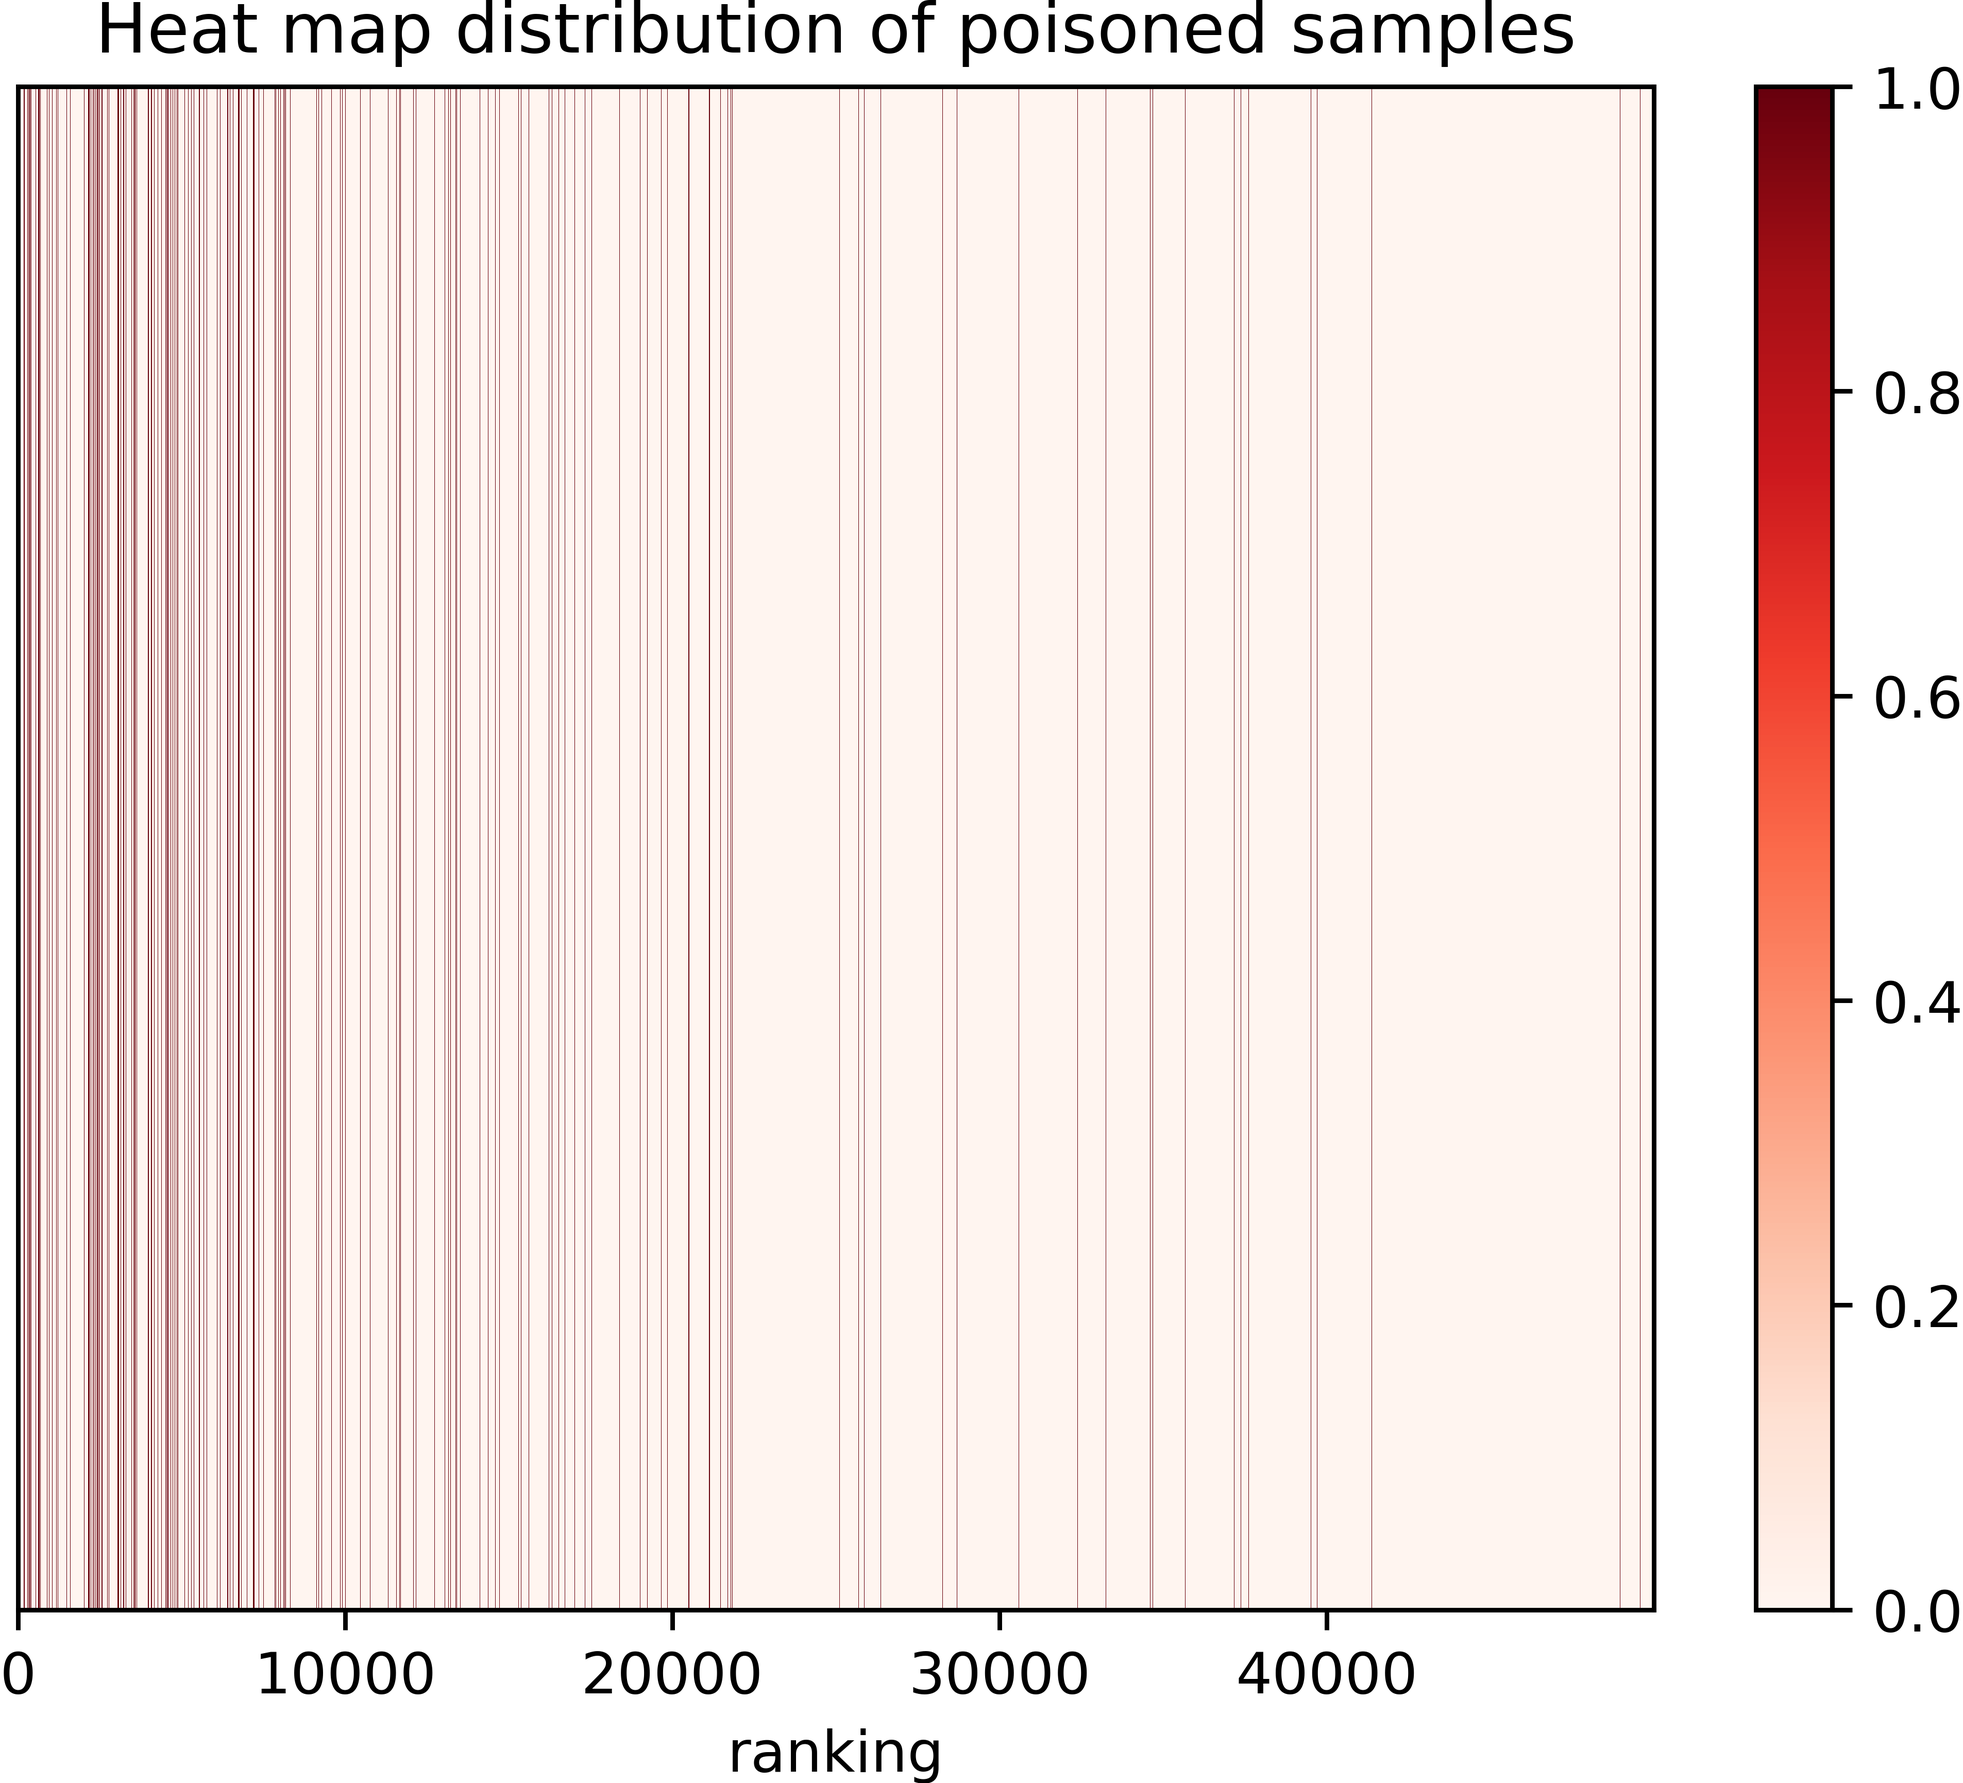
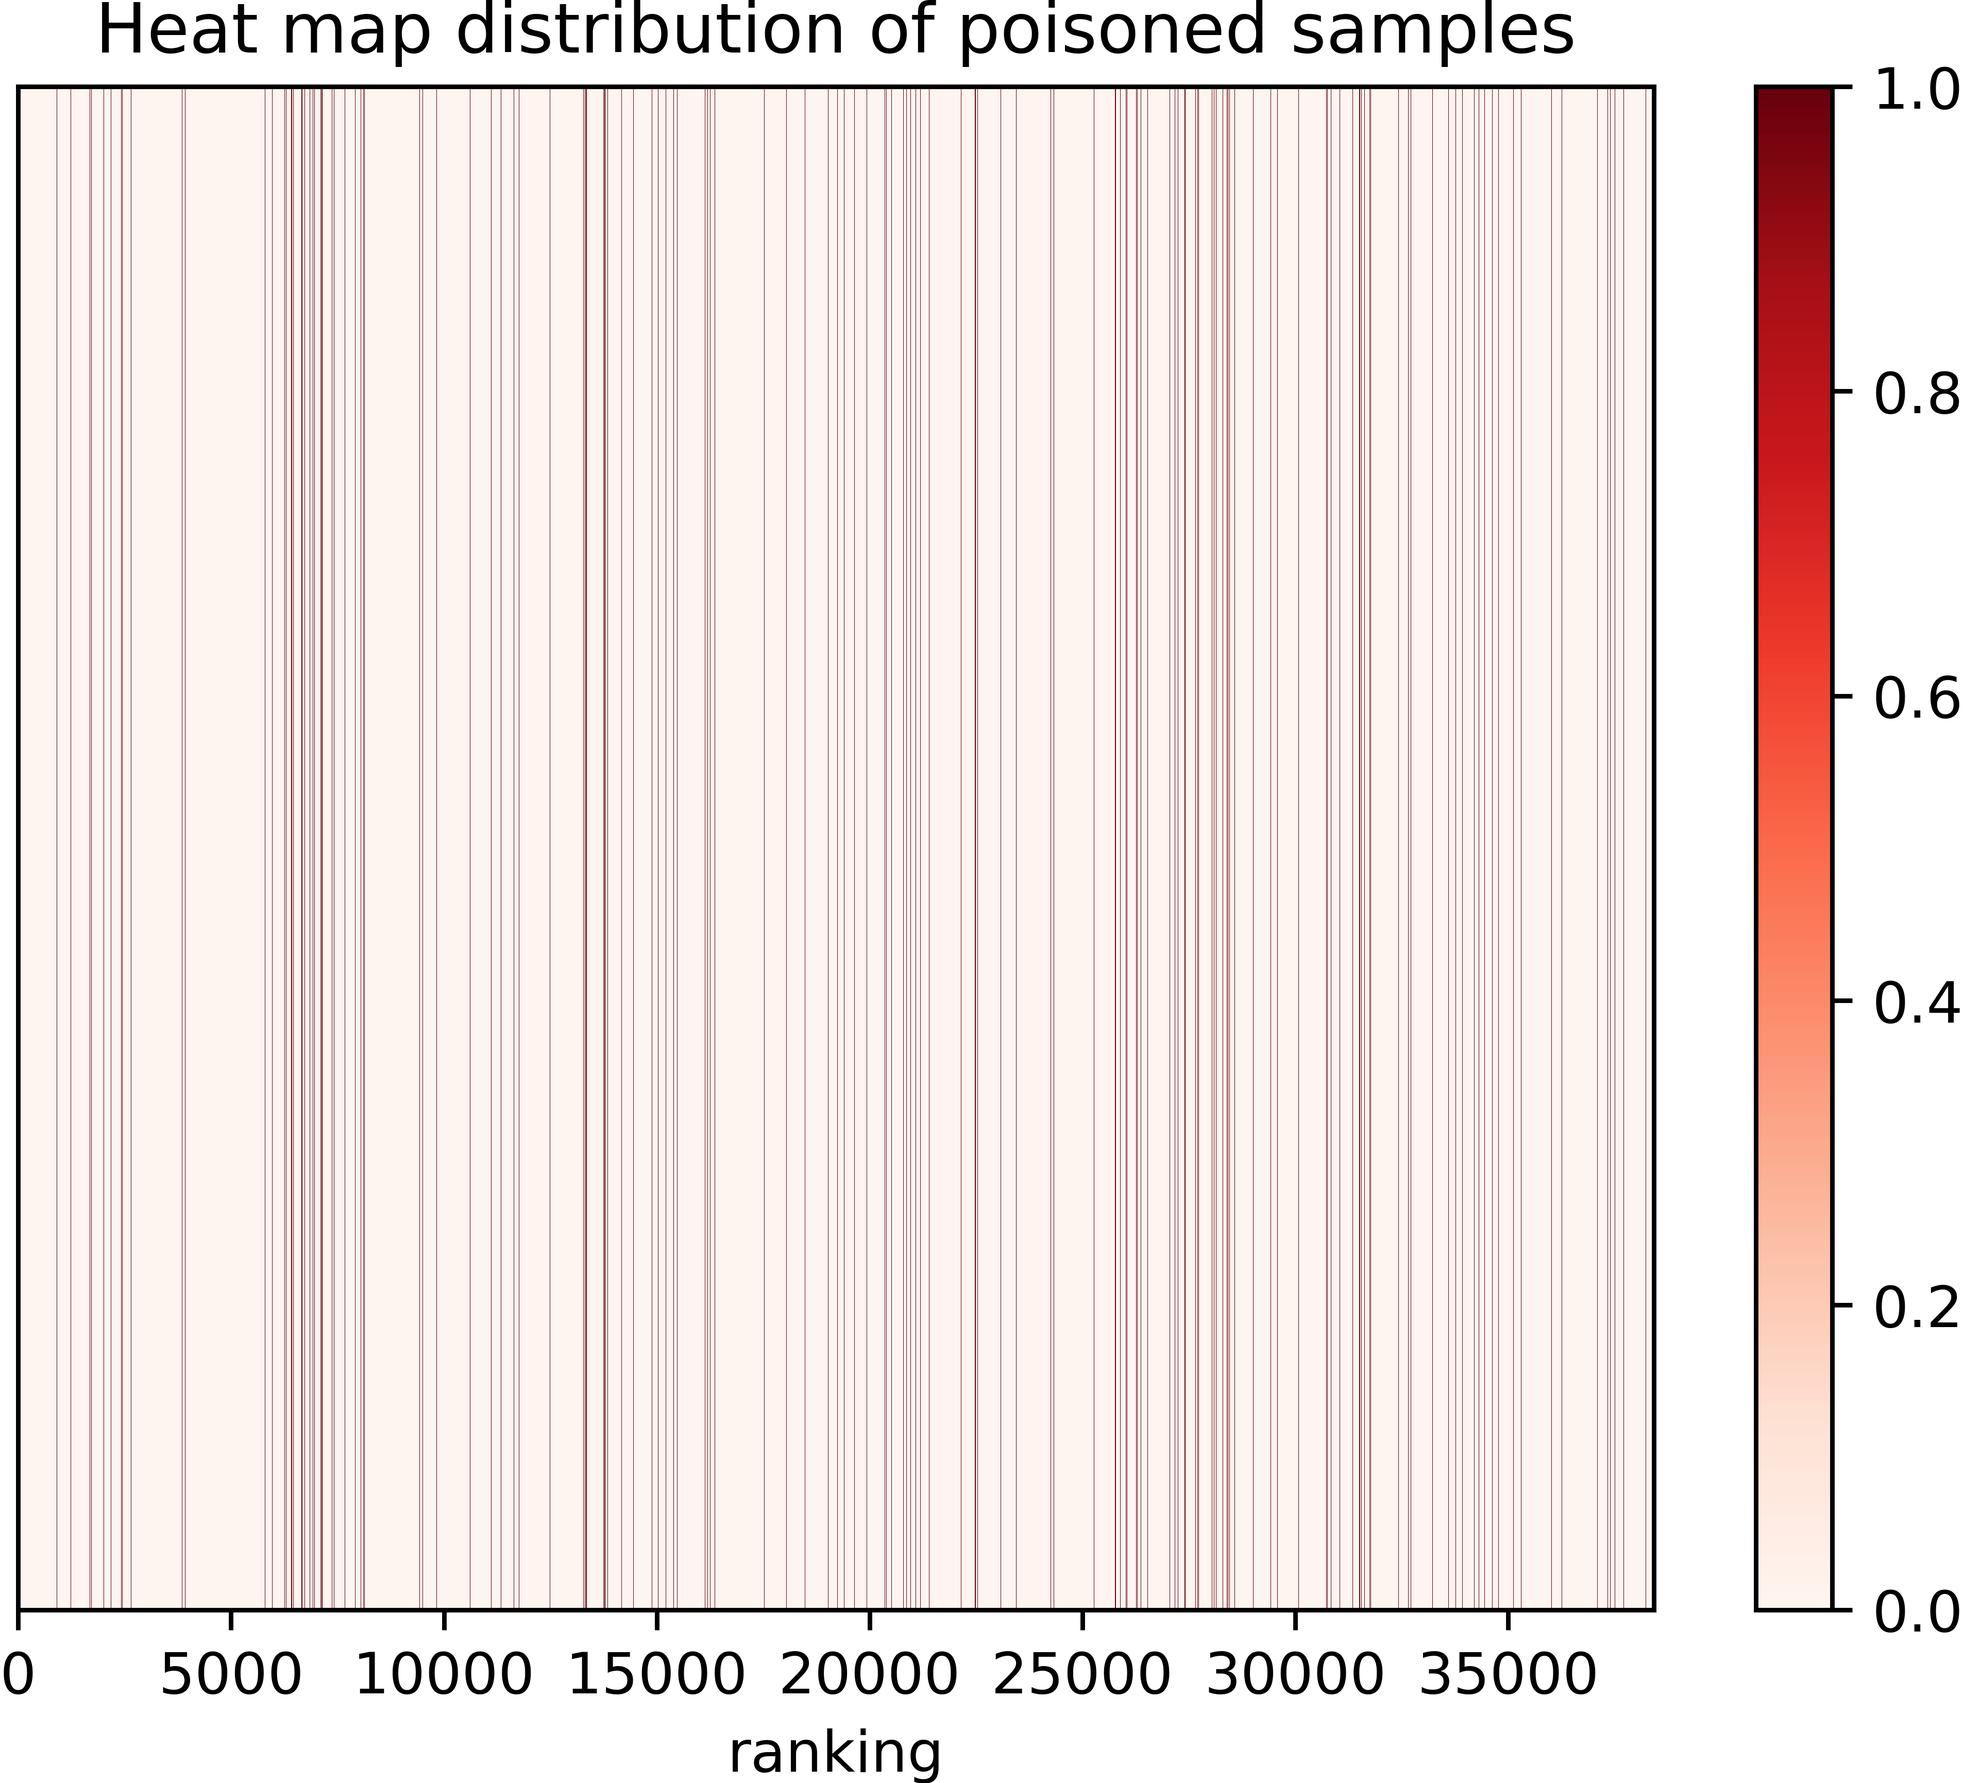
go

diff --git a/codes/ourMethod/retrain.py b/codes/ourMethod/retrain.py
@@ -6,6 +6,7 @@ import os
 import time
 import joblib
 import copy
+import queue
 import numpy as np
 from collections import defaultdict
 from codes.ourMethod.loss import SCELoss
@@ -45,10 +46,6 @@ from codes.transform_dataset import gtsrb_BadNets, gtsrb_IAD, gtsrb_Refool, gtsr
 from codes.transform_dataset import imagenet_BadNets, imagenet_IAD, imagenet_Refool, imagenet_WaNet
 
 
-# 进程名称
-proctitle = f"OMretrain|{config.dataset_name}|{config.model_name}|{config.attack_name}"
-setproctitle.setproctitle(proctitle)
-print(proctitle)
 
 # 加载后门攻击配套数据
 backdoor_data_path = os.path.join(config.exp_root_dir, 
@@ -136,60 +133,48 @@ poisoned_testset_loader = DataLoader(
             shuffle=False,
             num_workers=4,
             pin_memory=True)
+
+# 获得种子
+# {class_id:[sample_id]}
+clean_sample_dict = defaultdict(list)
+for sample_id, item in enumerate(poisoned_trainset):
+    x = item[0]
+    y = item[1]
+    isPoisoned = item[2]
+    if isPoisoned is False:
+        clean_sample_dict[y].append(sample_id)
+seed_sample_id_list = []
+for class_id,sample_id_list in clean_sample_dict.items():
+    seed_sample_id_list.extend(np.random.choice(sample_id_list, replace=False, size=10).tolist())
+seedSet = Subset(poisoned_trainset,seed_sample_id_list)
 # 获得设备
 device = torch.device(f"cuda:{config.gpu_id}")
 
 
-'''
-看一下后门模型上损失情况
-'''
+def resort(ranked_sample_id_list,label_list,class_rank:list)->list:
+        # 基于class_rank得到每个类别权重，原则是越可疑的类别（索引越小的类别），权（分）越大
+        cls_num = len(class_rank)
+        cls2score = {}
+        for idx, cls in enumerate(class_rank):
+            # rank:类别cat的位次
+            cls2score[cls] = (cls_num - idx)/cls_num 
 
-model = backdoor_model
-'''
-model.to(device)
-dataset_loader = poisoned_evalset_loader # 不打乱
-# 损失函数
-# loss_fn = SCELoss(num_classes=10, reduction="none") # nn.CrossEntropyLoss()
-loss_fn = nn.CrossEntropyLoss()
-loss_record = Record("loss", len(dataset_loader.dataset)) # 记录每个样本的loss
-label_record = Record("label", len(dataset_loader.dataset))
-model.eval()
-# 判断模型是在CPU还是GPU上
-for _, batch in enumerate(dataset_loader): # 分批次遍历数据加载器
-    # 该批次数据
-    X = batch[0].to(device)
-    # 该批次标签
-    Y = batch[1].to(device)
-    with torch.no_grad():
-        P_Y = model(X)
-    loss_fn.reduction = "none" # 数据不进行规约,以此来得到每个样本的loss,而不是批次的avg_loss
-    loss = loss_fn(P_Y, Y)
-    loss_record.update(loss.cpu())
-    label_record.update(Y.cpu())
-# 基于loss排名
-loss_array = loss_record.data.numpy()
-# 基于loss的从小到大的样本本id排序数组
-based_loss_ranked_sample_id_array =  loss_array.argsort()
-# 获得对应的poisoned_flag
-poisoned_flag = []
-for sample_id in based_loss_ranked_sample_id_array:
-    if sample_id in poisoned_ids:
-        poisoned_flag.append(True)
-    else:
-        poisoned_flag.append(False)
-# 话图看一下中毒样本在序中的分布
-distribution = [1 if flag else 0 for flag in poisoned_flag]
-# 绘制热力图
-plt.imshow([distribution], aspect='auto', cmap='Reds', interpolation='nearest')
-plt.title('Heat map distribution of poisoned samples')
-plt.xlabel('ranking')
-plt.colorbar()
-plt.yticks([])
-plt.savefig("imgs/backdoor_SCEloss.png", bbox_inches='tight', pad_inches=0.0, dpi=800)
-plt.close()
-'''
+        sample_num = len(ranked_sample_id_list)
+        # 一个优先级队列
+        q = queue.PriorityQueue()
+        for idx, sample_id in enumerate(ranked_sample_id_list):
+            sample_rank = idx+1
+            sample_label = label_list[sample_id]
+            cls_score = cls2score[sample_label]
+            score = (sample_rank/sample_num)*cls_score
+            q.put((score,sample_id)) # 越小优先级越高，越干净
+        resort_sample_id_list = []
+        while not q.empty():
+            resort_sample_id_list.append(q.get()[1])
+        return resort_sample_id_list
 
-def module_1(model):
+def module_1(model,class_rank=None):
+    '''基于模型损失值或class_rank对样本进行可疑程度排序'''
     model.to(device)
     dataset_loader = poisoned_evalset_loader # 不打乱
     # 损失函数
@@ -213,54 +198,46 @@ def module_1(model):
     # 基于loss排名
     loss_array = loss_record.data.numpy()
     # 基于loss的从小到大的样本本id排序数组
-    based_loss_ranked_sample_id_array =  loss_array.argsort()
+    based_loss_ranked_sample_id_list =  loss_array.argsort().tolist()
+    
+    if class_rank is None:
+        ranked_sample_id_list = based_loss_ranked_sample_id_list
+    else:
+        label_list = label_record.data.numpy().tolist()
+        ranked_sample_id_list  = resort(based_loss_ranked_sample_id_list,label_list,class_rank)
     # 获得对应的poisoned_flag
-    poisoned_flag = []
-    for sample_id in based_loss_ranked_sample_id_array:
+    isPoisoned_list = []
+    for sample_id in ranked_sample_id_list:
         if sample_id in poisoned_ids:
-            poisoned_flag.append(True)
+            isPoisoned_list.append(True)
         else:
-            poisoned_flag.append(False)
+            isPoisoned_list.append(False)
+    return ranked_sample_id_list, isPoisoned_list
+
+def draw(isPoisoned_list,file_name):
     # 话图看一下中毒样本在序中的分布
-    distribution = [1 if flag else 0 for flag in poisoned_flag]
+    distribution = [1 if flag else 0 for flag in isPoisoned_list]
     # 绘制热力图
     plt.imshow([distribution], aspect='auto', cmap='Reds', interpolation='nearest')
     plt.title('Heat map distribution of poisoned samples')
     plt.xlabel('ranking')
     plt.colorbar()
     plt.yticks([])
-    plt.savefig("imgs/retrain_CEloss_1.png", bbox_inches='tight', pad_inches=0.0, dpi=800)
+    plt.savefig(f"imgs/{file_name}", bbox_inches='tight', pad_inches=0.0, dpi=800)
     plt.close()
 
-'''
-重训练
-'''
-# 获得种子
-# {class_id:[sample_id]}
-clean_sample_dict = defaultdict(list)
-for sample_id, item in enumerate(poisoned_trainset):
-    x = item[0]
-    y = item[1]
-    isPoisoned = item[2]
-    if isPoisoned is False:
-        clean_sample_dict[y].append(sample_id)
-seed_sample_id_list = []
-for class_id,sample_id_list in clean_sample_dict.items():
-    seed_sample_id_list.extend(np.random.choice(sample_id_list, replace=False, size=10).tolist())
-seedSet = Subset(poisoned_trainset,seed_sample_id_list)
-# 基于种子retrain 5轮
-def train(model,device,dataset):
+def train(model,device,dataset,num_epoch=10,lr=1e-5):
     model.train()
     model.to(device)
-    num_epochs = 5
     dataset_loader = DataLoader(
             dataset, # 非预制
             batch_size=64,
             shuffle=True, # 打乱
             num_workers=4)
-    optimizer = optim.Adam(model.parameters(),lr=0.0001)
+    optimizer = optim.Adam(model.parameters(),lr=lr)
     loss_function = nn.CrossEntropyLoss()
-    for epoch in range(num_epochs):
+    for epoch in range(num_epoch):
+        step_loss_list = []
         for _, batch in enumerate(dataset_loader):
             optimizer.zero_grad()
             X = batch[0].to(device)
@@ -269,10 +246,115 @@ def train(model,device,dataset):
             loss = loss_function(P_Y, Y)
             loss.backward()
             optimizer.step()
-        print(f"epoch:{epoch},loss:{loss}")
+            step_loss_list.append(loss.item())
+        epoch_loss = sum(step_loss_list) / len(step_loss_list)
+        print(f"epoch:{epoch},loss:{epoch_loss}")
     return model
-model = train(model,device,seedSet)
-# 看看基于损失排序后中毒样本的分布
-module_1(model)
 
+def get_classes_rank()->list:
+    '''获得类别排序'''
+    dataset_name = config.dataset_name
+    model_name = config.model_name
+    attack_name = config.attack_name
+    exp_root_dir = config.exp_root_dir
+    mutated_rate = 0.01
+    measure_name = "Precision_mean"
+    if dataset_name in ["CIFAR10","GTSRB"]:
+        grid = joblib.load(os.path.join(exp_root_dir,"grid.joblib"))
+        classes_rank = grid[dataset_name][model_name][attack_name][mutated_rate][measure_name]["class_rank"]
+    elif config.dataset_name == "ImageNet2012_subset":
+        classRank_data = joblib.load(os.path.join(
+            exp_root_dir,
+            "ClassRank",
+            dataset_name,
+            model_name,
+            attack_name,
+            str(mutated_rate),
+            measure_name,
+            "ClassRank.joblib"
+        ))
+        classes_rank =classRank_data["class_rank"]
+    else:
+        raise Exception("数据集名称错误")
+    return classes_rank
 
+def freeze_model(model,dataset_name,model_name):
+    if dataset_name == "CIFAR10" or dataset_name == "GTSRB":
+        if model_name == "ResNet18":
+            for name, param in model.named_parameters():
+                if 'classifier' in name or 'linear' in name or 'layer4' in name:
+                    param.requires_grad = True
+                else:
+                    param.requires_grad = False
+        elif model_name == "VGG19":
+            for name, param in model.named_parameters():
+                if 'classifier' in name or 'features.5' in name or 'features.4' in name or 'features.3' in name:
+                    param.requires_grad = True
+                else:
+                    param.requires_grad = False
+        elif model_name == "DenseNet":
+            for name, param in model.named_parameters():
+                if 'classifier' in name or 'linear' in name or 'dense4' in name:
+                    param.requires_grad = True
+                else:
+                    param.requires_grad = False
+        else:
+            raise Exception("模型不存在")
+    elif dataset_name == "ImageNet2012_subset":
+        if model_name == "VGG19":
+            for name, param in model.named_parameters():
+                if 'classifier' in name:  # 只训练最后几层或全连接层
+                    param.requires_grad = True
+                else:
+                    param.requires_grad = False
+        elif model_name == "DenseNet":
+            for name,param in model.named_parameters():
+                if 'classifier' in name or 'features.denseblock4' in name or 'features.denseblock3' in name:  # 只训练最后几层或全连接层
+                    param.requires_grad = True
+                else:
+                    param.requires_grad = False
+        elif model_name == "ResNet18":
+            for name,param in model.named_parameters():
+                if 'fc' in name or 'layer4' in name:
+                    param.requires_grad = True
+                else:
+                    param.requires_grad = False
+        else:
+            raise Exception("模型不存在")
+    else:
+        raise Exception("模型不存在")
+    return model
+
+if __name__ == "__main__":
+
+    # 进程名称
+    proctitle = f"OMretrain|{config.dataset_name}|{config.model_name}|{config.attack_name}"
+    setproctitle.setproctitle(proctitle)
+    print(proctitle)
+    model = backdoor_model
+    # FT前模型评估
+    e = EvalModel(model,poisoned_testset,device)
+    asr = e.eval_acc()
+    print("backdoor_ASR:",asr)
+    e = EvalModel(model,clean_testset,device)
+    acc = e.eval_acc()
+    print("backdoor_acc:",acc)
+    ranked_sample_id_list, isPoisoned_list = module_1(model)
+    draw(isPoisoned_list,file_name="backdoor_loss.png")
+    # 冻结
+    freeze_model(model,dataset_name=config.dataset_name,model_name=config.model_name)
+    # 获得class_rank
+    class_rank = get_classes_rank()
+    # 基于种子集和后门模型微调10轮次
+    model = train(model,device,seedSet,lr=1e-3)
+    e = EvalModel(model,poisoned_testset,device)
+    asr = e.eval_acc()
+    print("FT_ASR:",asr)
+    e = EvalModel(model,clean_testset,device)
+    acc = e.eval_acc()
+    print("FT_acc:",acc)
+    ranked_sample_id_list, isPoisoned_list = module_1(model)
+    draw(isPoisoned_list,file_name="retrain10epoch_loss.png")
+    ranked_sample_id_list, isPoisoned_list = module_1(model,class_rank)
+    draw(isPoisoned_list,file_name="retrain10epoch_lossAndClassRank.png")
+    print("End")

diff --git a/codes/config.py b/codes/config.py
@@ -37,13 +37,13 @@ poisoned_rate = 0.05
 ###########################################################
 
 # 当前实验设置的数据集名字
-dataset_name = "CIFAR10" # CIFAR10, GTSRB, ImageNet2012_subset
+dataset_name = "ImageNet2012_subset" # CIFAR10, GTSRB, ImageNet2012_subset
 # 数据集分类任务数量
-class_num = 10 #  CIFAR-10:10,GTSRB:43,ImageNet2012_subset:30
+class_num = 30 #  CIFAR-10:10,GTSRB:43,ImageNet2012_subset:30
 # 当前实验设置的模型名字
-model_name = "ResNet18" # ResNet18, VGG19, DenseNet
+model_name = "DenseNet" # ResNet18, VGG19, DenseNet
 # 当前实验设置的攻击
-attack_name = "IAD" # BadNets, IAD, Refool, WaNet
+attack_name = "BadNets" # BadNets, IAD, Refool, WaNet
 # GPU设备
 gpu_id = 1
 # baseline ASD配置

diff --git a/codes/test.py b/codes/test.py
@@ -103,8 +103,14 @@ def test19():
     a.tolist()
     print(type(a))
 
+def test20():
+    a = np.array([1,2,3])
+    print(len(a))
+    for i,d in enumerate(a):
+        print(i,d)
+
 if __name__ == "__main__":
-    test19()
+    test20()
 
 
 
